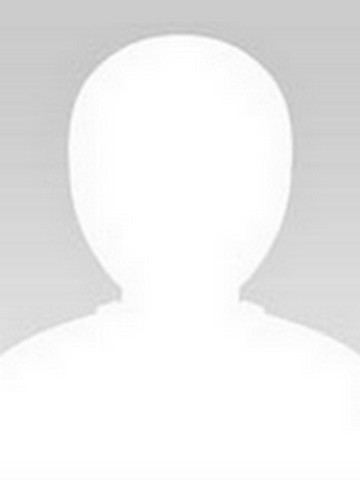
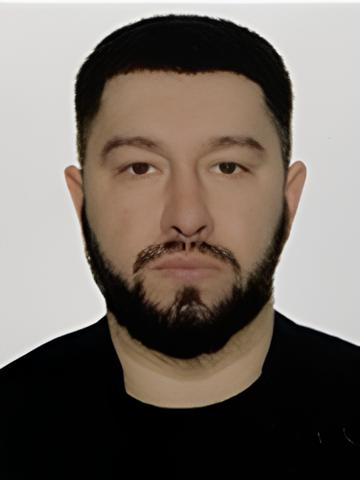
timonov

diff --git a/index.md b/index.md
@@ -27,7 +27,7 @@ data:
 </tr>
 <tr>
   <td>ВУЗ</td>
-  <td>Донецкий Национальный Технический Университет, (ДонНТУ) электротехнический факультет (ЭПГ), 2002-2007 г. — Специалист. Специальность: «Электротехнические системы электропотребления»</td>
+  <td>Донецкий Национальный Технический Университет, (ДонНТУ) электротехнический факультет (ЭПГ), 2002–2007 г. — Специалист. Специальность: «Электротехнические системы электропотребления»</td>
 </tr>
 <tr>
   <td>Средний балл</td>
@@ -49,27 +49,100 @@ data:
   </td>
 </tr>
 <tr>
-  <td>Личные качества</td>
-  <td>Краткий перечень положительных качеств, присущих магистру по его же мнению</td>
+  <td>Общие навыки</td>
+  <td>
+
+1. Знание, соблюдение и обеспечение техники безопасности.
+2. Взаимодействие с клиентами и заказчиками.
+3. Базовые знания ПК.
+4. Контроль качества проектной документации на всех этапах ее выполнения.
+5. Знание общих нормативно-правовых актов РФ.
+6. Знание требований и стандартов пожарной безопасности.
+7. Чтение чертежей.
+8. Проведение лабораторной диагностики.
+  </td>
+<tr>
+  <td>Профессиональные навыки</td>
+  <td>
+  
+1. Операционные системы: Windows, Android.
+2. Прикладное ПО: Microsoft Office, Microsoft Excel, Google Workspace.
+3. Мультимедия и моделироввание: Adobe Photoshop.
+4. Техническое обслуживание и ремонт оборудования.
+5. Выполнение электротехнических работ.
+6. Знания в области логистики.
+  </td>
+<tr>
 </tr>
 <tr>
-  <td>Профессиональная специализация и владение компьютером</td>
-  <td>Наиболее емкий раздел, обязательно разбивается на подразделы. Например: <br>1. Операционные системы...<br>2. Прикладные направления...<br>3. Языки программирования...<br>4. Среды разработки... <br>Разбиение по пунктам может быть произвольным с максимальной детализацией каждого пункта.</td>
+  <td>Надпрофессиональные навыки</td>
+  <td>
+
+1. Коммуникативная граммотность.
+2. Информационная граммотность.
+3. Цифровая и компьютерная граммотность.
+4. Уверенное выступление перед любой аудиторией.
+5. Управление предприятием.
+6. Обучаемость и адаптивность.
+7. Аналитическое мышление.
+8. Работа с обратной связью.
+9. Креативное мышление.
+10. Целеустремленность и умение доводить начатое до конца.
+  </td>
 </tr>
 <tr>
-  <td>Дополнительные курсы, стажировки, гранты</td>
-  <td>Например, тематические компьютерные или профессиональные курсы, стажировки за границей, международные конференции.</td>
+  <td>Личные достижения</td>
+  <td>Десятикратный чемпион  РОФСО Федерация Военно-спортивного многоборья и практической стрельбы ДНР в период 2017–2019 г.</td>
+</tr>
+<tr>
+  <td>Дополнительные сведения</td>
+  <td>Сторонник партии «Новые Люди»</td>
 </tr>
 <tr>
   <td>Опыт работы</td>
-  <td>Если магистр имеет опыт работы (например, при прохождении практики), то указывается предприятие, должность и сроки работы.</td>
+  <td><table>
+  <tr>
+  <td>09.2022 – по настоящее время</td>
+  <td>
+
+**ООО» Электроснабжение предприятий и городов» — учредитель компании**
+
+**Должность**: Директор
+  </td>
+  </tr>
+  <tr>
+  <td>11.2016–08.2022</td>
+  <td>
+  
+**ООО «Менеджмент, консалтинг, девелопмент» — учредитель компании**
+
+**Должность**: Директор
+  </td>
+  </tr>
+  <tr>
+  <td>08.2007–11.2013</td>
+  <td>
+  
+**ОАО «ПЭС-ЭНЕРГОУГОЛЬ»**
+
+**Должность**: инспектор ведомственного отдела энергонадзора
+  </td>
+  </tr>
+  </table></td>
 </tr>
 <tr>
   <td>Планы на будущее</td>
-  <td>Кратко</td>
+  <td>
+
+Мои планы на будущее как учредителя и директора нашей проектной компании — продолжать развивать бизнес, внедрять современные технологии и повышать качество наших услуг. Я стремлюсь к тому, чтобы наша команда становилась еще более профессиональной, а реализуемые проекты — максимально эффективными и инновационными.
+
+В планах — расширение спектра услуг, укрепление партнерских связей и участие в крупных инфраструктурных и энергетических проектах. Также намерен постоянно совершенствовать свои управленческие навыки и знания в области проектирования, чтобы обеспечить стабильный рост компании и долгосрочный успех. Моя главная цель — сделать нашу компанию надежным и лидирующим игроком на рынке проектных услуг.
+  </td>
 </tr>
 <tr>
   <td>Контактная информация</td>
-  <td>Любые одна-две записи, по желанию магистра (e-mail, skype, facebook, ICQ и так далее)</td>
+  <td>VK — <a href="https://vk.com/id295060623">id295060623</a><br>
+  Telegram —  <a href="https://t.me/Vladimir_TimonovDNR">@Vladimir_TimonovDNR</a><br>
+  E-mail: <a href="mailto:ТTimonovVV@mail.ru">ТTimonovVV@mail.ru</a></td>
 </tr>
 </table>

diff --git a/diss/diss.md b/diss/diss.md
@@ -57,7 +57,7 @@ data:
 
 Применение автоматизированных систем коммерческого учёта электроэнергии
 (АСКУЭ) позволяет свести к минимуму участие человека на этапе измерения,
-сбора и обработки данных. Как результат — обеспечение достоверного учёта
+сбора и обработки данных. Как результат — обеспечение достоверного учёта
 энергии благодаря гибкому и оперативному получению информации от
 различных тарифных систем.
 
@@ -70,7 +70,7 @@ data:
 ### Актуальность
 
 Актуальность темы «Применение технологии АСКУЭ в учёте электроэнергии
-микрорайона города» связана с несколькими факторами:
+микрорайона города» связана с несколькими факторами:
 1)  **Удорожание энергоресурсов**. Промышленным предприятиям приходится
     всё больше разрабатывать и вводить мероприятия по энергосбережению,
     которое основывается на контроле за потреблением различных
@@ -378,9 +378,9 @@ Metering в задачах учёта и сбережения электроэн
   Издательский дом МЭИ, 2016. — 476 с. Режим доступа: <a href="https://irbis.amursu.ru/DigitalLibrary/AmurSU_Edition/10649.pdf">irbis.amursu.ru</a>
   </li>
   <li><a name="ref3"></a>«Контроль и учёт электроэнергии в современных системах
-  электроснабжения», авторы: В. И. Васильченко и др.. Учебное пособие,
+  электроснабжения», авторы: В.И. Васильченко и др.. Учебное пособие,
   Белгород: Белгородский государственный технологический университет
-  им. В. Г. Шухова, ЭБС АСВ, 2011. Режим доступа: <a href="https://irbis.amursu.ru/DigitalLibrary/AmurSU_Edition/10649.pdf">irbis.amursu.ru</a>
+  им. В.Г. Шухова, ЭБС АСВ, 2011. Режим доступа: <a href="https://irbis.amursu.ru/DigitalLibrary/AmurSU_Edition/10649.pdf">irbis.amursu.ru</a>
   </li>
   <li><a name="ref4"></a>Осика Л. К. Расчётные методы интеллектуальных измерений Smart Metering
   в задачах учёта и сбережения электроэнергии: практическое пособие —
@@ -409,8 +409,8 @@ Metering в задачах учёта и сбережения электроэн
   209–211. Режим доступа: <a href="https://elibrary.ru/item.asp?id=26023440">elibrary.ru</a>
   </li>
   <li><a name="ref10"></a>Автоматизированные системы и комплексы учёта энергоресурсов в
-  электроэнергетике», Скидан А. С., Тищенко Е. Н., Антонов М. А.,
-  Богачев А. Э. Сборник трудов конференции «Молодёжь и
+  электроэнергетике», Скидан А.С., Тищенко Е. Н., Антонов М.А.,
+  Богачев А.Э. Сборник трудов конференции «Молодёжь и
   XXI век — 2021» (Курск, 18–19 февраля).
   </li>
   <li><a name="ref11"></a>Сайт Недвижимость. Раздел Электронный учебник. Статья "Когда нужно
